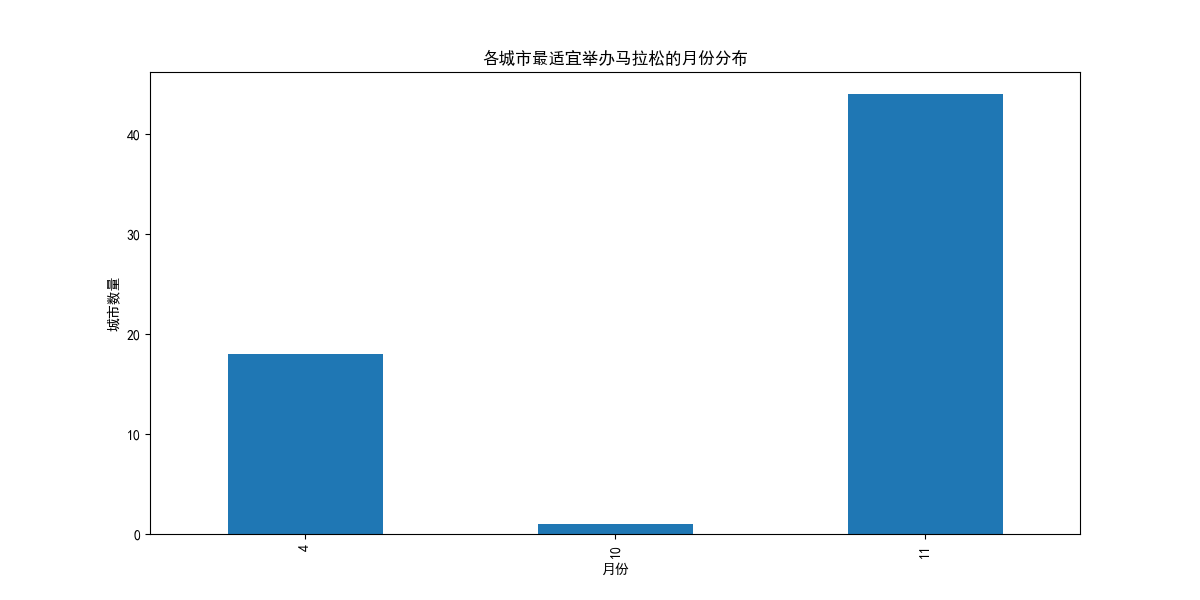
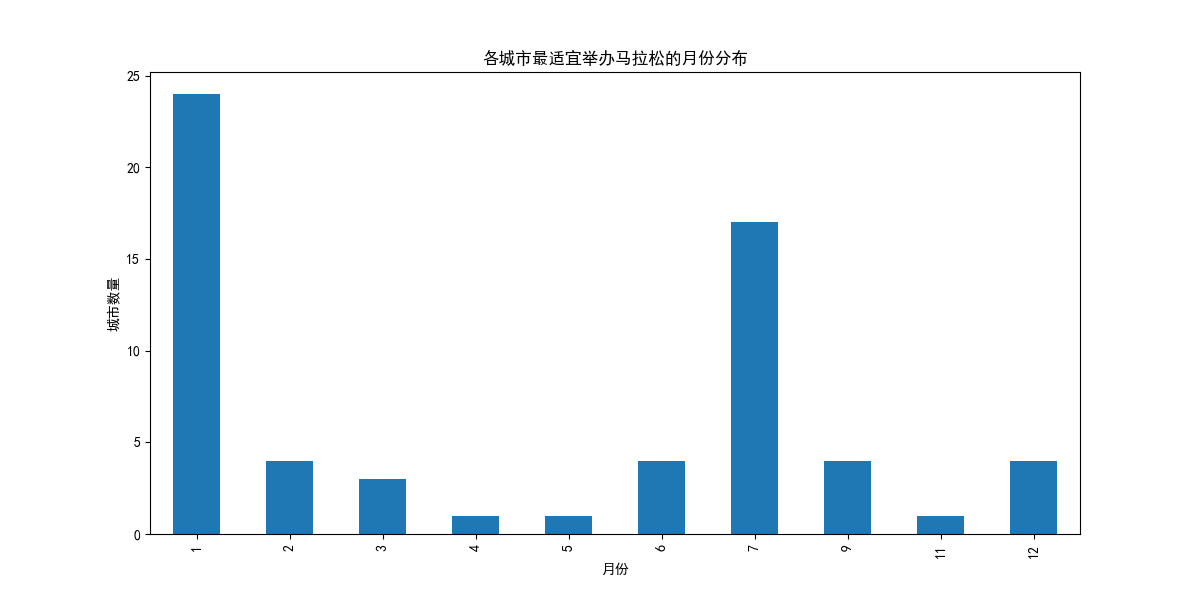
feat(P1): 优化数据加载和处理逻辑
- 更新数据加载函数，增加数据格式适配和错误处理
- 重构人口规模分析和报名热度分析函数，提高代码可读性和健壮性
- 优化综合评分模型，调整评分计算逻辑
- 新增输出结果，生成城市马拉松适宜性评分CSV文件

Changed region(s): [[0.6783, 0.15, 0.8942, 0.9], [0.0925, 0.15, 0.3392, 0.9], [0.37, 0.36, 0.6475, 0.9]]

diff --git a/NMMCM-2025/P1.py b/NMMCM-2025/P1.py
@@ -17,15 +17,47 @@ def ensure_dir_exists(dir_path):
 
 # 加载数据
 def load_data():
-    # 气象数据（附件1）
-    weather_data = pd.read_csv('processed_data/附件1_meteorological_data.csv')
-    # 轨道交通客运量（附件2）
-    transit_data = pd.read_csv('processed_data/附件2_subway_traffic.csv')
-    # 人口普查数据（附件3）- 使用城市级数据
-    census_data = pd.read_csv('processed_data/附件3_population_city.csv')
-    # 历史报名人数（附件12）
-    registration_data = pd.read_csv('processed_data/附件12_marathon_history.csv')
-    return weather_data, transit_data, census_data, registration_data
+    """加载清洗后的数据"""
+    try:
+        # 气象数据（附件1）
+        weather_data = pd.read_csv('processed_data/cleaned/附件1_meteorological_data_cleaned.csv')
+        # 轨道交通客运量（附件2）
+        transit_data = pd.read_csv('processed_data/cleaned/附件2_subway_traffic_cleaned.csv')
+        # 人口普查数据（附件3）- 使用城市级数据
+        census_data = pd.read_csv('processed_data/cleaned/附件3_population_city_cleaned.csv')
+        # 历史报名人数（附件12）
+        registration_data = pd.read_csv('processed_data/cleaned/附件12_marathon_history_cleaned.csv')
+
+        # 数据格式适配
+        # 1. 气象数据
+        if 'datetime' in weather_data.columns:
+            weather_data['datetime'] = pd.to_datetime(weather_data['datetime'])
+
+        # 2. 轨道交通数据
+        if '年份' in transit_data.columns:
+            transit_data['年份'] = transit_data['年份'].astype(int)
+        if '月份' in transit_data.columns:
+            transit_data['月份'] = transit_data['月份'].astype(int)
+
+        # 3. 人口普查数据
+        if '普查年份' in census_data.columns:
+            census_data['普查年份'] = census_data['普查年份'].astype(int)
+
+        # 4. 马拉松历史数据
+        if '比赛日期' in registration_data.columns:
+            registration_data['比赛日期'] = pd.to_datetime(registration_data['比赛日期'])
+
+        print("数据加载成功！")
+        print(f"气象数据形状: {weather_data.shape}")
+        print(f"轨道交通数据形状: {transit_data.shape}")
+        print(f"人口普查数据形状: {census_data.shape}")
+        print(f"马拉松历史数据形状: {registration_data.shape}")
+
+        return weather_data, transit_data, census_data, registration_data
+
+    except Exception as e:
+        print(f"加载数据时出错: {e}")
+        return None, None, None, None
 
 # 气象适宜性分析
 def analyze_weather_suitability(weather_data):
@@ -121,6 +153,10 @@ def analyze_weather_suitability(weather_data):
 # 城市承载能力分析
 def analyze_city_capacity(transit_data):
     """分析城市轨道交通运力"""
+    if transit_data is None:
+        print("轨道交通数据为空，无法进行分析")
+        return None
+
     # 计算每个城市的月均客运量和峰值
     city_capacity = transit_data.groupby(['城市', '年份', '月份'])['客运量（万人次）'].mean().reset_index()
     city_capacity.rename(columns={'城市': 'city'}, inplace=True)
@@ -140,22 +176,26 @@ def analyze_city_capacity(transit_data):
     return monthly_capacity
 
 # 人口规模分析
-def analyze_population(census_data):
-    """分析人口数据，计算各城市的总人口和年龄分布"""
+def analyze_population(population_data):
+    """分析城市人口数据"""
+    if population_data is None:
+        print("人口数据为空，无法进行分析")
+        return None
+
     # 计算总人口
-    age_columns = [col for col in census_data.columns if any(x in col for x in ['岁_男', '岁_女'])]
-    census_data['total_population'] = census_data[age_columns].sum(axis=1)
+    age_columns = [col for col in population_data.columns if any(x in col for x in ['岁_男', '岁_女'])]
+    population_data['total_population'] = population_data[age_columns].sum(axis=1)
 
     # 计算适龄人口（18-45岁）比例
-    running_age_columns = [col for col in census_data.columns if any(x in col for x in ['20-24岁', '25-29岁', '30-34岁', '35-39岁', '40-44岁', '15-19岁'])]
-    census_data['running_age_population'] = census_data[running_age_columns].sum(axis=1)
-    census_data['running_age_ratio'] = census_data['running_age_population'] / census_data['total_population']
+    running_age_columns = [col for col in population_data.columns if any(x in col for x in ['20-24岁', '25-29岁', '30-34岁', '35-39岁', '40-44岁', '15-19岁'])]
+    population_data['running_age_population'] = population_data[running_age_columns].sum(axis=1)
+    population_data['running_age_ratio'] = population_data['running_age_population'] / population_data['total_population']
 
     # 提取城市名称
-    census_data['city'] = census_data['地名_Unnamed: 1_level_1']
+    population_data['city'] = population_data['地名_Unnamed: 1_level_1']
 
     # 计算人口规模评分
-    population_analysis = census_data[['city', 'total_population', 'running_age_population', 'running_age_ratio']].copy()
+    population_analysis = population_data[['city', 'total_population', 'running_age_population', 'running_age_ratio']].copy()
 
     # 人口规模评分：总人口越多越好，但有上限
     population_analysis.loc[:, 'population_size_score'] = population_analysis['total_population'] / 1000000  # 每百万人口1分
@@ -165,61 +205,63 @@ def analyze_population(census_data):
     population_analysis.loc[:, 'age_ratio_score'] = population_analysis['running_age_ratio'] * 3  # 最高3分
 
     # 总人口评分
-    population_analysis.loc[:, 'population_score'] = population_analysis['population_size_score'] + population_analysis['age_ratio_score']
+    population_analysis.loc[:, 'total_score'] = population_analysis['population_size_score'] + population_analysis['age_ratio_score']
 
     return population_analysis
 
 # 报名热度分析
-def analyze_registration_trend(registration_data):
-    """分析历史报名数据，预测报名热度"""
-    # 处理raceTime列，先检查格式
-    registration_data['raceTime'] = registration_data['raceTime'].astype(str)
+def analyze_registration_trend(marathon_data):
+    """分析马拉松报名趋势"""
+    if marathon_data is None:
+        print("马拉松历史数据为空，无法进行分析")
+        return None
 
-    # 清理数据，过滤掉不符合日期格式的行
-    valid_date_mask = registration_data['raceTime'].str.match(r'\d{4}-\d{2}-\d{2}')
-    if valid_date_mask.any():
-        valid_registration_data = registration_data[valid_date_mask].copy()
-    else:
-        # 如果没有合适的日期格式，则使用其他方法
-        # 用于从"2024-10-20 00:00:00"格式的日期中提取月份
-        valid_registration_data = registration_data.copy()
-        valid_registration_data['month'] = 0  # 默认值
+    # 打印列名以便调试
+    print("马拉松历史数据列名:", marathon_data.columns.tolist())
 
-        # 尝试找出包含年份和月份的列，如果直接提取失败
-        if '比赛时间' in registration_data.columns:
-            valid_registration_data['month'] = pd.to_datetime(registration_data['比赛时间'],
-                                                          errors='coerce').dt.month.fillna(0).astype(int)
-        else:
-            # 手动提取月份（从类似"2024-10-20 00:00:00"的字符串）
-            month_extract = registration_data['raceTime'].str.extract(r'(\d{4})-(\d{2})-\d{2}')
-            if not month_extract.empty and not month_extract[1].isna().all():
-                valid_registration_data['month'] = month_extract[1].astype(float).fillna(0).astype(int)
-            else:
-                # 如果无法提取月份，则随机分配，或者根据其他字段推断
-                valid_registration_data['month'] = np.random.randint(1, 13, size=len(valid_registration_data))
+    # 从raceTime列提取月份信息
+    try:
+        marathon_data['raceTime'] = pd.to_datetime(marathon_data['raceTime'], errors='coerce')
+        marathon_data['month'] = marathon_data['raceTime'].dt.month
+    except Exception as e:
+        print(f"处理日期时出错: {e}")
+        # 尝试从raceTime字符串中提取月份
+        try:
+            marathon_data['month'] = marathon_data['raceTime'].str.extract(r'(\d{4})-(\d{2})-\d{2}')[1].astype(int)
+        except:
+            print("无法从raceTime提取月份信息")
+            return None
 
-    # 提取月份信息
-    if 'month' not in valid_registration_data.columns:
-        valid_registration_data['month'] = pd.to_datetime(valid_registration_data['raceTime'],
-                                                     errors='coerce').dt.month.fillna(0).astype(int)
+    # 从raceScale列提取报名人数
+    try:
+        # 尝试从raceScale中提取数字
+        marathon_data['报名人数'] = marathon_data['raceScale'].str.extract(r'(\d+)').astype(float)
+    except:
+        print("无法从raceScale提取报名人数")
+        return None
 
-    # 按月份统计赛事数量
-    monthly_events = valid_registration_data.groupby('month').size().reset_index(name='event_count')
+    # 计算每个城市的报名人数和完赛率
+    city_stats = marathon_data.groupby('raceAddres').agg({
+        '报名人数': 'mean',
+        'month': 'count'  # 使用月份计数作为赛事数量
+    }).reset_index()
 
-    # 提取报名人数（从raceScale中提取数字部分）
-    if 'raceScale' in valid_registration_data.columns:
-        # 从raceScale中提取数字（修复转义序列）
-        valid_registration_data['registrants'] = valid_registration_data['raceScale'].str.extract(r'(\d+)').astype(float)
-        monthly_registrants = valid_registration_data.groupby('month')['registrants'].mean().reset_index()
-        monthly_events = monthly_events.merge(monthly_registrants, on='month', how='left')
-    else:
-        monthly_events['registrants'] = np.nan
+    # 计算报名热度评分：报名人数越多，热度越高
+    city_stats['报名热度'] = city_stats['报名人数'] / city_stats['报名人数'].max() * 10
 
-    # 计算报名热度评分：赛事数量越多，热度越高
-    max_events = monthly_events['event_count'].max() if not monthly_events.empty else 1
-    monthly_events['popularity_score'] = (monthly_events['event_count'] / max_events) * 10
+    # 计算赛事频次评分：赛事数量越多，频次越高
+    city_stats['频次评分'] = city_stats['month'] / city_stats['month'].max() * 10
 
-    return monthly_events
+    # 综合评分
+    city_stats['综合评分'] = city_stats['报名热度'] + city_stats['频次评分']
+
+    # 重命名列以保持一致性
+    city_stats.rename(columns={
+        'raceAddres': 'city',
+        'month': '赛事数量'
+    }, inplace=True)
+
+    return city_stats
 
 # 综合评分模型
 def build_comprehensive_model(weather_data, city_capacity, population_data, registration_data):
@@ -245,9 +287,24 @@ def build_comprehensive_model(weather_data, city_capacity, population_data, regi
 
         # 如果仍然没找到匹配的人口数据，使用平均值
         if len(city_population) == 0:
-            population_score = population_data['population_score'].mean()
+            population_score = population_data['total_score'].mean()
         else:
-            population_score = city_population['population_score'].iloc[0]
+            population_score = city_population['total_score'].iloc[0]
+
+        # 查找报名热度数据
+        city_registration = registration_data[registration_data['city'] == city]
+        if len(city_registration) == 0:
+            # 尝试模糊匹配
+            for reg_city in registration_data['city'].unique():
+                if city in reg_city or reg_city in city:
+                    city_registration = registration_data[registration_data['city'] == reg_city]
+                    break
+
+        # 如果仍然没找到匹配的报名数据，使用平均值
+        if len(city_registration) == 0:
+            popularity_score = registration_data['综合评分'].mean()
+        else:
+            popularity_score = city_registration['综合评分'].iloc[0]
 
         for month in months:
             # 获取当月气象评分
@@ -265,13 +322,6 @@ def build_comprehensive_model(weather_data, city_capacity, population_data, regi
                 transport_score = month_transport['transport_score'].iloc[0]
             else:
                 transport_score = 0
-
-            # 获取当月报名热度评分
-            month_popularity = registration_data[registration_data['month'] == month]
-            if len(month_popularity) > 0:
-                popularity_score = month_popularity['popularity_score'].iloc[0]
-            else:
-                popularity_score = 0
 
             # 计算综合评分：气象50%，交通30%，人口10%，报名热度10%
             total_score = (
